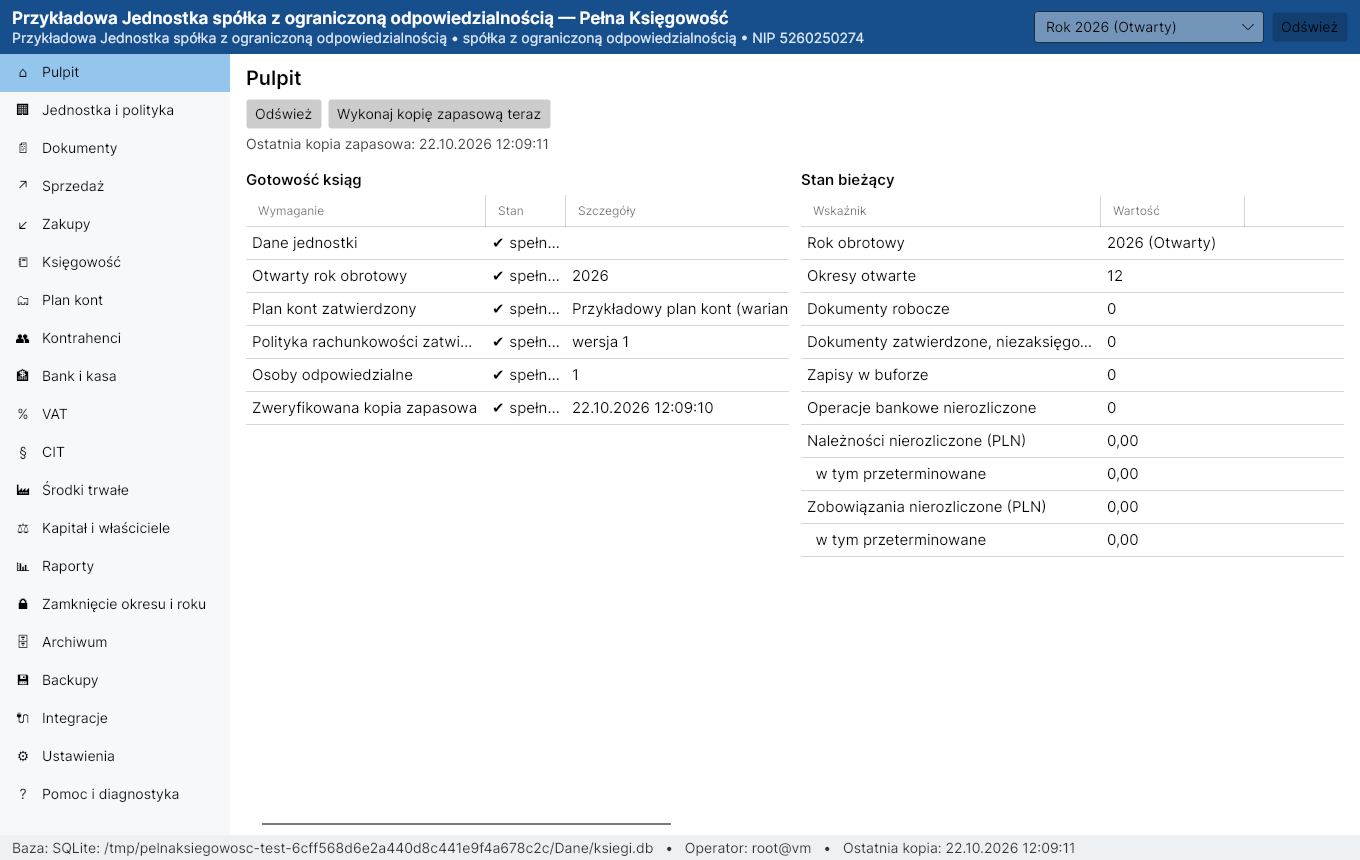
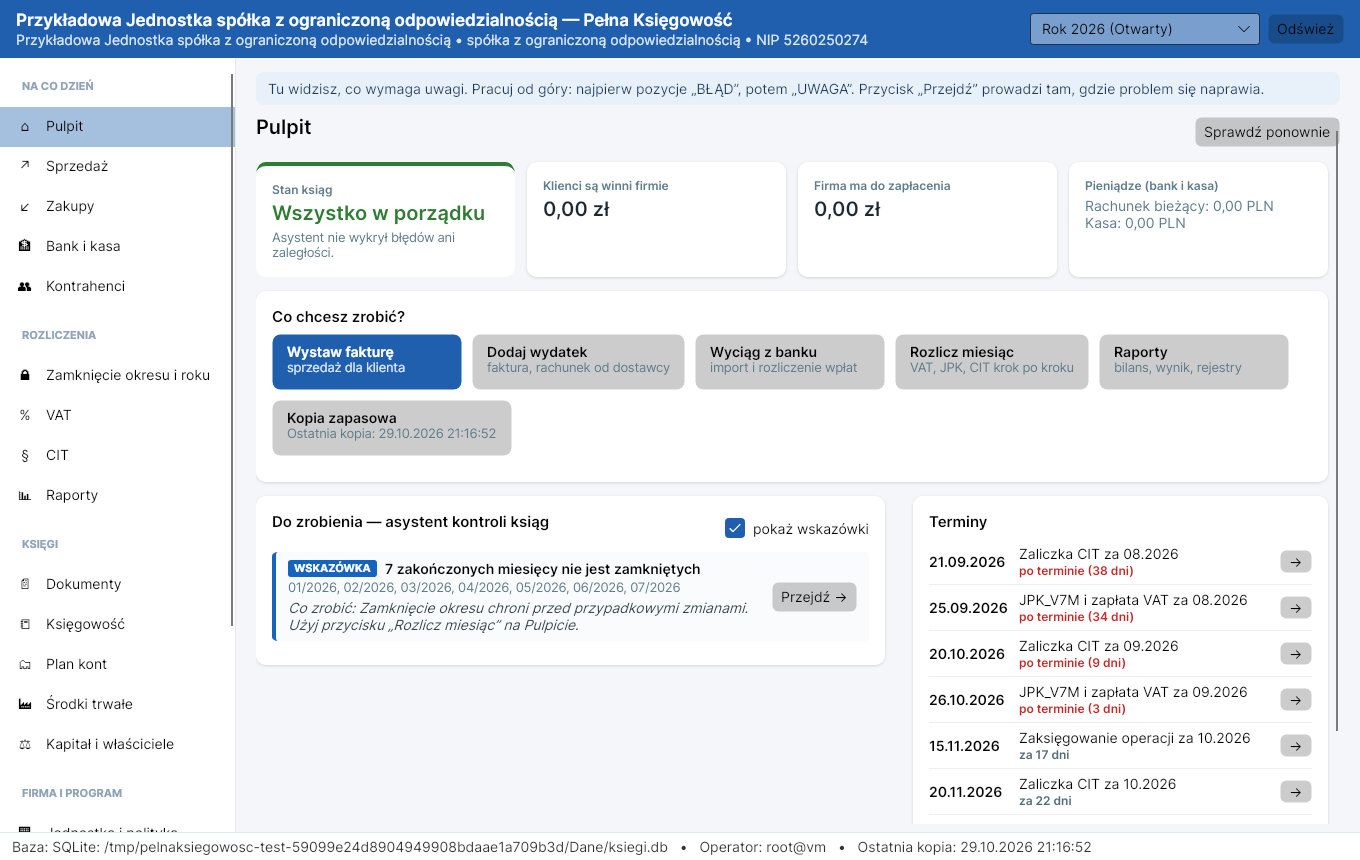
Dokumentacja i zrzuty: asystent, kategorie wydatków, kreator rozliczenia miesiąca, biała lista, NBP
Claude-Session: https://claude.ai/code/session_01FZXngFwFBERLuKLvgcq2LS

diff --git a/README.md b/README.md
@@ -10,6 +10,23 @@ zamknięcie roku, sprawozdania i szyfrowane kopie zapasowe (także w OVHcloud Ob
 
 ## Najważniejsze cechy
 
+**Dla osób bez przygotowania księgowego:**
+
+- **Asystent kontroli ksiąg** na Pulpicie — sam wykrywa błędy, niezgodności i zaległości (dokumenty niezaksięgowane
+  w terminie, brak odliczenia VAT, faktury dla firm bez KSeF, duplikaty, płatności gotówkowe ponad 15 000 zł,
+  niezapłacone faktury po 90 dniach, ujemna kasa, salda po złej stronie, brak wyciągów, amortyzacji, kopii…),
+  objaśnia je prostym językiem i prowadzi do miejsca naprawy.
+- **Kalendarz terminów** — JPK_V7M i VAT, zaliczki CIT, zaksięgowanie miesiąca, sprawozdanie finansowe, CIT-8.
+- **Rodzaje wydatków** (paliwo, samochód osobowy, telefon, najem, hotel, restauracja, reprezentacja…) — program sam
+  dobiera konto, procent odliczenia VAT i część kosztu nieuznawaną podatkowo.
+- **Kreator „Rozlicz miesiąc”** — dokumenty, bank, amortyzacja, VAT, JPK, zaliczka CIT, kopia i zamknięcie, każdy
+  krok jednym przyciskiem. **„Zapisz i zaksięguj”** w fakturach.
+- **Kreator planu kont** dopasowany do działalności, **biała lista VAT** (dane kontrahenta po NIP, sprawdzenie
+  rachunku), **kurs NBP** jednym przyciskiem, **rodzaje operacji bankowych** zamiast numerów kont, objaśnienia
+  w każdej sekcji i słowniczek pojęć.
+
+**Księgowość:**
+
 - **Silnik księgowy**: podwójny zapis Wn/Ma z kontrolą bilansowania, kwoty wyłącznie `decimal`, zapisy zaksięgowane
   niemodyfikowalne (logika + wyzwalacze bazy), korekty tylko stornem, ciągła numeracja dziennika i łańcuch skrótów
   SHA-256 wykrywający manipulacje, bufor zapisów.
@@ -34,8 +51,10 @@ zamknięcie roku, sprawozdania i szyfrowane kopie zapasowe (także w OVHcloud Ob
   operator jest zapisywany w dzienniku zdarzeń. Hasła i klucze w magazynie systemu (Windows: Menedżer
   poświadczeń, Linux: pęk kluczy) — nigdy w plikach konfiguracji.
 
-| Kreator pierwszego uruchomienia | Faktura sprzedaży |
+| Wydatek z kategorią | Rozlicz miesiąc |
 |---|---|
+| ![Wydatek](docs/zrzuty/wydatek.png) | ![Rozlicz miesiąc](docs/zrzuty/rozlicz-miesiac.png) |
+| **Kreator pierwszego uruchomienia** | **Faktura sprzedaży** |
 | ![Kreator](docs/zrzuty/kreator.png) | ![Faktura](docs/zrzuty/faktura-sprzedazy.png) |
 
 ## Pobranie i instalacja
@@ -73,8 +92,9 @@ Instrukcja: [docs/INSTALL.md](docs/INSTALL.md). Kompilacja ze źródeł: [docs/B
 - JPK_V7K (rozliczenie kwartalne), JPK dla osoby fizycznej (sekcja OsobaFizyczna) i zaliczki PIT — nieobsługiwane.
 - Schematy XSD JPK_V7M i e-Sprawozdania nie są dołączone — pliki mają status „niezwalidowany” do czasu
   walidacji oficjalnym schematem (szczegóły: [schemas/README.md](schemas/README.md)).
-- KSeF: uwierzytelnianie tokenem; podpis XAdES (kwalifikowany/Profil Zaufany) nieobsługiwany. Integracja
-  sprawdzona testami na atrapie API — przed użyciem produkcyjnym przetestuj ją w środowisku testowym KSeF.
+- KSeF: uwierzytelnianie tokenem; podpis XAdES (kwalifikowany/Profil Zaufany) nieobsługiwany.
+- Biała lista VAT i kursy NBP: integracje sprawdzone testami na atrapach API (publiczne API MF i NBP).
+- Reguły kategorii wydatków odpowiadają typowym przypadkom — w nietypowej sytuacji procenty zmienia się ręcznie.
 - Wariant kalkulacyjny RZiS i informacja dodatkowa sprawozdania — nieobsługiwane.
 - Mapowania podatkowe i księgowe wymagają weryfikacji przez księgowego lub doradcę podatkowego
   ([docs/COMPLIANCE_MATRIX.md](docs/COMPLIANCE_MATRIX.md)).

diff --git a/docs/USER_GUIDE.md b/docs/USER_GUIDE.md
@@ -16,7 +16,30 @@
 9. **Utworzenie ksiąg** — program tworzy księgi, rachunek bankowy i kasę oraz wykonuje pierwszą kopię.
    Lista gotowości pokazuje, co jeszcze uzupełnić (także na Pulpicie).
 
+## Pulpit — od czego zacząć
+
+Pulpit pokazuje stan ksiąg, pieniądze, należności i zobowiązania, przyciski najczęstszych czynności oraz listę
+**„Do zrobienia”** przygotowaną przez asystenta kontroli ksiąg. Pracuj od góry: najpierw pozycje **BŁĄD**, potem
+**UWAGA**. Każda pozycja mówi, co jest nie tak i co zrobić, a przycisk **„Przejdź”** otwiera właściwe miejsce.
+Obok widać **terminy** (JPK i VAT, zaliczki CIT, zaksięgowanie miesiąca, sprawozdanie) z informacją, czy zostały wykonane.
+
 ## Codzienna praca
+
+**Wydatek (faktura zakupu):** Zakupy → „+ Dodaj wydatek” → wybierz dostawcę, wpisz numer faktury i daty → w pozycji
+wybierz **rodzaj wydatku** (np. „Paliwo — samochód osobowy”, „Telefon, internet”, „Hotel”) i wpisz cenę netto →
+**„Zapisz i zaksięguj”**. Program dobierze konto, odliczenie VAT i część kosztu, której nie uznaje urząd skarbowy.
+Pod tabelą pojawia się wyjaśnienie zasad dla wybranego rodzaju wydatku.
+
+**Faktura sprzedaży:** Sprzedaż → „+ Wystaw fakturę” → klient, pozycje → **„Zapisz i zaksięguj”** → „Wyślij do KSeF”.
+
+**Nowy kontrahent:** Kontrahenci → „Nowy kontrahent” → wpisz NIP → **„Pobierz dane z białej listy”** → Zapisz.
+Przed przelewem powyżej 15 000 zł kliknij **„Sprawdź rachunek na białej liście”**.
+
+**Waluta obca:** w fakturze wpisz walutę (np. EUR) i kliknij **„Pobierz kurs NBP”**.
+
+**Bank:** po imporcie wyciągu zaznacz operację: wpływ od klienta lub zapłatę faktury dopasuj do propozycji;
+opłatę, podatek, ZUS albo przelew własny wybierz z listy **„Co to za operacja?”** → Zaksięguj.
+
 
 | Zadanie | Gdzie |
 |---|---|
@@ -33,13 +56,19 @@
 | Zdarzenia kapitałowe | Kapitał i właściciele → dodaj właściciela → nowe zdarzenie → potwierdź dokumenty → zaksięguj |
 | Raporty | Raporty → wybierz raport i daty → Generuj → eksport PDF/XLSX/CSV |
 
-## Koniec miesiąca
+## Koniec miesiąca — kreator „Rozlicz miesiąc”
 
-1. Zaksięguj dokumenty i wyciągi, nalicz amortyzację.
-2. VAT → okres → Kontrola rejestrów → Zaksięguj rozliczenie VAT → Generuj JPK_V7M (zweryfikuj i wyślij
-   narzędziem MF — program nie wysyła JPK).
-3. CIT → okres → Przelicz → Zapisz wyliczenie zaliczki → po weryfikacji pozycji „do analizy” Zatwierdź.
-4. Zamknięcie okresu i roku → zaznacz miesiąc → Lista kontrolna → Zamknij okres.
+Pulpit → **„Rozlicz miesiąc”** (albo sekcja Zamknięcie → zakładka kreatora). Wpisz miesiąc i wykonuj kroki po kolei —
+każdy ma swój przycisk i pokazuje, czy jest zrobiony:
+
+1. Dokumenty — „Zaksięguj wszystkie poprawne” (dokumenty z błędami zostaną wymienione do poprawy).
+2. Bank i kasa — zaimportuj wyciąg za cały miesiąc i rozlicz operacje.
+3. Amortyzacja — jeżeli firma ma środki trwałe.
+4. VAT — kontrola rejestrów i zaksięgowanie rozliczenia (program pokaże kwotę do zapłaty).
+5. JPK_V7M — zapis pliku; wyślij go narzędziem MF do 25. dnia (program nie wysyła JPK).
+6. Zaliczka CIT — wyliczenie i zatwierdzenie; zapłać do 20. dnia.
+7. Kopia zapasowa.
+8. Zamknięcie miesiąca.
 
 ## Koniec roku
 

diff --git a/docs/COMPLIANCE_MATRIX.md b/docs/COMPLIANCE_MATRIX.md
@@ -30,6 +30,13 @@ implementacja i co wymaga sprawdzenia przez uprawnioną osobę. Brzmienie przepi
 | VAT art. 109 ust. 3 | ewidencja VAT | rejestry z polami JPK | Z/W |
 | Rozporządzenie MF ws. JPK_V7 | struktura JPK_V7M | generator; mapowanie pól wymaga weryfikacji; bez walidacji XSD | Cz |
 | JPK_V7K, osoba fizyczna | kwartalny wariant, sekcja OsobaFizyczna | — | N |
+| UoR art. 24 ust. 5 pkt 4 | ujęcie operacji miesiąca do 15. dnia następnego miesiąca | asystent i kalendarz terminów | Z |
+| VAT art. 86a, 88 ust. 1 pkt 4 | ograniczenia odliczenia (samochody osobowe, noclegi, gastronomia) | kategorie wydatków z procentem odliczenia | Z/W |
+| VAT art. 89b, CIT art. 15b | korekta przy niezapłaconych zobowiązaniach (90 dni) | asystent: błąd dla zobowiązań > 90 dni po terminie | Z/W |
+| VAT art. 96b, CIT art. 15d, Ordynacja art. 117ba | biała lista, płatności > 15 000 zł | sprawdzenie rachunku w wykazie, asystent: gotówka > 15 000 zł | Z/W |
+| VAT art. 108a | mechanizm podzielonej płatności | asystent: wskazówka dla faktur > 15 000 zł bez MPP (załącznik nr 15 — ocenia użytkownik) | Cz |
+| VAT art. 31a, UoR art. 30, CIT art. 15a | kurs NBP z dnia poprzedzającego | pobieranie kursu NBP, asystent: dokument walutowy bez tabeli | Z/W |
+| CIT art. 16 ust. 1 pkt 28, 51 | reprezentacja, 75% kosztów samochodu osobowego | część NKUP pozycji w dekrecie i w uzgodnieniu CIT | Z/W |
 | CIT art. 19 | stawki 9% / 19% | stawka wg statusu małego podatnika i pierwszego roku | Z/W |
 | CIT art. 25 | zaliczki | narastająco, miesięczne/kwartalne, terminy | Z/W |
 | CIT art. 16a–16m | amortyzacja podatkowa | odrębne parametry podatkowe | Z/W |

diff --git a/docs/TEST_PLAN.md b/docs/TEST_PLAN.md
@@ -27,6 +27,8 @@ zapisuje zrzuty wszystkich ekranów.
 | Integracyjne | pełny rok obrotowy z zamknięciem i BO (kontrola wyniku i sum bilansu), kopie (szyfrowanie, manipulacje, odtwarzanie), PostgreSQL (migracja, księgowanie, utrata połączenia), S3 | `Integration/` |
 | Integracje zewnętrzne | KSeF 2.0 na atrapie API (szyfrowanie RSA/AES, skróty, odrzucenie, zły token), FA(3) z oficjalnym XSD, JPK_V7M | `Integrations/` |
 | Ekrany (E2E bez interfejsu) | kreator dla różnych form prawnych, wszystkie sekcje, faktura → zatwierdzenie → księgowanie, zapis ręczny i storno, drugie stanowisko, walidacja kreatora | `Presentation/` |
+| Asystent i kreatory | wykrywanie problemów (dokumenty, odliczenie VAT, zobowiązania > 90 dni, ujemna kasa, kopie), terminy JPK/CIT/księgowania, kategorie wydatków (paliwo 50% VAT i 25% NKUP, reprezentacja, storno), kreator planu kont, kreator „Rozlicz miesiąc” | `Assistant/` |
+| Biała lista i NBP | odwzorowanie odpowiedzi API, rozbiór adresu, sprawdzenie rachunku, błędy, kurs z ostatniej tabeli przed datą | `Integrations/WhiteListTests.cs` |
 | Wiersz poleceń | info, kopia, weryfikacja, odtworzenie, integralność, kody wyjścia | `Presentation/` (`CommandLineTests`) |
 | Program okienkowy | uruchomienie procesu z `--test-uruchomienia`: okna, 20 widoków, operacje | `Presentation/` (`DesktopAppStartupTests`) |
 | Pakiety (CI) | kontrola uruchomienia opublikowanych programów, instalacja `.deb` i `.msi`, uruchomienie zainstalowanego programu, odinstalowanie | `.github/workflows/ci.yml` |

diff --git a/docs/ACCOUNTING_REQUIREMENTS.md b/docs/ACCOUNTING_REQUIREMENTS.md
@@ -80,6 +80,12 @@ Ewidencja sprzedaży i zakupów (art. 109 ust. 3 VAT) z mapowaniem na pola JPK_V
 odliczenie VAT wymaga świadomego potwierdzenia zakresu i okresu (art. 86 ust. 10b, 11); import usług
 z samonaliczeniem; wyliczenie deklaracji w pełnych złotych; rozliczenie na kontach; plik JPK_V7M.
 
+### Kategorie wydatków
+
+Pozycja zakupu może mieć kategorię (np. paliwo do samochodu osobowego w użytku mieszanym), która wyznacza konto,
+procent odliczenia VAT i część kosztu niestanowiącą KUP. Dekret dzieli koszt (netto + VAT nieodliczony) na część
+KUP i NKUP; część NKUP jest oznaczona w pozycji zapisu i uwzględniana w uzgodnieniu CIT (także po stornie).
+
 ## 10. Faktury i KSeF
 
 Faktury FA(3) z elementami art. 106e VAT (w zakresie obsługiwanym przez generator), walidowane z oficjalnym XSD;

diff --git a/docs/PROGRESS.md b/docs/PROGRESS.md
@@ -16,6 +16,10 @@ Wersja: 0.9.0 (przed pierwszym wydaniem 1.0).
 - Testy automatyczne: jednostkowe, integracyjne (SQLite, PostgreSQL, S3), atrapa KSeF, E2E ekranów,
   uruchomienie programu okienkowego bez monitora.
 
+- Ułatwienia dla osób bez przygotowania księgowego: asystent kontroli ksiąg z kalendarzem terminów, kategorie
+  wydatków z regułami VAT/KUP, kreatory planu kont i rozliczenia miesiąca, księgowanie jednym kliknięciem,
+  biała lista VAT, kurs NBP, rodzaje operacji bankowych, objaśnienia sekcji i słowniczek.
+
 ## Znane ograniczenia
 
 Zob. [README](../README.md#znane-ograniczenia) i [COMPLIANCE_MATRIX.md](COMPLIANCE_MATRIX.md). Najważniejsze:
